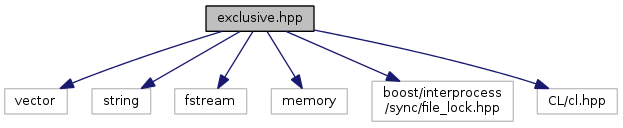
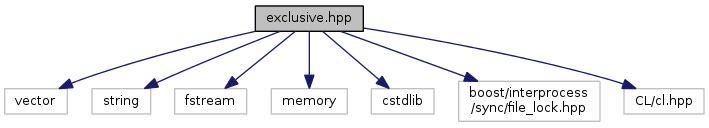
doc update

Changed region(s): [[0.0, 0.0312, 1.0, 0.9688], [0.2135, 0.875, 0.2745, 0.9062]]

diff --git a/annotated.html b/annotated.html
@@ -59,24 +59,23 @@
 <tr id="row_0_0_6_" class="even"><td class="entry"><img src="ftv2blank.png" alt="&#160;" width="16" height="22" /><img src="ftv2vertline.png" alt="|" width="16" height="22" /><img src="ftv2node.png" alt="o" width="16" height="22" /><img src="ftv2cl.png" alt="C" width="24" height="22" /><a class="el" href="structvex_1_1Filter_1_1Count.html" target="_self">Count</a></td><td class="desc">Selects no more than given number of devices</td></tr>
 <tr id="row_0_0_7_"><td class="entry"><img src="ftv2blank.png" alt="&#160;" width="16" height="22" /><img src="ftv2vertline.png" alt="|" width="16" height="22" /><img src="ftv2node.png" alt="o" width="16" height="22" /><img src="ftv2cl.png" alt="C" width="24" height="22" /><a class="el" href="structvex_1_1Filter_1_1Position.html" target="_self">Position</a></td><td class="desc">Selects one device at the given position</td></tr>
 <tr id="row_0_0_8_" class="even"><td class="entry"><img src="ftv2blank.png" alt="&#160;" width="16" height="22" /><img src="ftv2vertline.png" alt="|" width="16" height="22" /><img src="ftv2node.png" alt="o" width="16" height="22" /><img src="ftv2cl.png" alt="C" width="24" height="22" /><a class="el" href="structvex_1_1Filter_1_1EnvFilter.html" target="_self">EnvFilter</a></td><td class="desc">Environment filter</td></tr>
-<tr id="row_0_0_9_"><td class="entry"><img src="ftv2blank.png" alt="&#160;" width="16" height="22" /><img src="ftv2vertline.png" alt="|" width="16" height="22" /><img src="ftv2node.png" alt="o" width="16" height="22" /><img src="ftv2cl.png" alt="C" width="24" height="22" /><a class="el" href="structvex_1_1Filter_1_1NegateFilter.html" target="_self">NegateFilter</a></td><td class="desc">Negation of a filter</td></tr>
-<tr id="row_0_0_10_" class="even"><td class="entry"><img src="ftv2blank.png" alt="&#160;" width="16" height="22" /><img src="ftv2vertline.png" alt="|" width="16" height="22" /><img src="ftv2lastnode.png" alt="\" width="16" height="22" /><img src="ftv2cl.png" alt="C" width="24" height="22" /><a class="el" href="classvex_1_1Filter_1_1Exclusive.html" target="_self">Exclusive</a></td><td class="desc">Allows exclusive access to given number of devices across several processes</td></tr>
-<tr id="row_0_1_"><td class="entry"><img src="ftv2blank.png" alt="&#160;" width="16" height="22" /><img src="ftv2node.png" alt="o" width="16" height="22" /><img src="ftv2cl.png" alt="C" width="24" height="22" /><a class="el" href="classvex_1_1Context.html" target="_self">Context</a></td><td class="desc">VexCL context holder</td></tr>
-<tr id="row_0_2_" class="even"><td class="entry"><img src="ftv2blank.png" alt="&#160;" width="16" height="22" /><img src="ftv2node.png" alt="o" width="16" height="22" /><img src="ftv2cl.png" alt="C" width="24" height="22" /><a class="el" href="classvex_1_1profiler.html" target="_self">profiler</a></td><td class="desc">Class for gathering and printing OpenCL and Host profiling info</td></tr>
-<tr id="row_0_3_"><td class="entry"><img src="ftv2blank.png" alt="&#160;" width="16" height="22" /><img src="ftv2node.png" alt="o" width="16" height="22" /><img src="ftv2cl.png" alt="C" width="24" height="22" /><a class="el" href="classvex_1_1Reductor.html" target="_self">Reductor</a></td><td class="desc">Parallel reduction of arbitrary expression</td></tr>
-<tr id="row_0_4_" class="even"><td class="entry"><img src="ftv2blank.png" alt="&#160;" width="16" height="22" /><img src="ftv2node.png" alt="o" width="16" height="22" /><img src="ftv2cl.png" alt="C" width="24" height="22" /><a class="el" href="classvex_1_1SpMat.html" target="_self">SpMat</a></td><td class="desc">Sparse matrix in hybrid ELL-CSR format</td></tr>
-<tr id="row_0_5_"><td class="entry"><img src="ftv2blank.png" alt="&#160;" width="16" height="22" /><img src="ftv2node.png" alt="o" width="16" height="22" /><img src="ftv2cl.png" alt="C" width="24" height="22" /><a class="el" href="classvex_1_1SpMatCCSR.html" target="_self">SpMatCCSR</a></td><td class="desc">Sparse matrix in CCSR format</td></tr>
-<tr id="row_0_6_" class="even"><td class="entry"><img src="ftv2blank.png" alt="&#160;" width="16" height="22" /><img src="ftv2node.png" alt="o" width="16" height="22" /><img src="ftv2cl.png" alt="C" width="24" height="22" /><a class="el" href="classvex_1_1stencil.html" target="_self">stencil</a></td><td class="desc">Stencil</td></tr>
-<tr id="row_0_7_"><td class="entry"><img src="ftv2blank.png" alt="&#160;" width="16" height="22" /><img src="ftv2node.png" alt="o" width="16" height="22" /><img src="ftv2cl.png" alt="C" width="24" height="22" /><a class="el" href="classvex_1_1gstencil.html" target="_self">gstencil</a></td><td class="desc">Generalized stencil</td></tr>
-<tr id="row_0_8_" class="even"><td class="entry"><img src="ftv2blank.png" alt="&#160;" width="16" height="22" /><img src="ftv2node.png" alt="o" width="16" height="22" /><img src="ftv2cl.png" alt="C" width="24" height="22" /><a class="el" href="classvex_1_1StencilOperator.html" target="_self">StencilOperator</a></td><td class="desc">User-defined stencil operator</td></tr>
-<tr id="row_0_9_"><td class="entry"><img src="ftv2blank.png" alt="&#160;" width="16" height="22" /><img src="ftv2node.png" alt="o" width="16" height="22" /><img src="ftv2cl.png" alt="C" width="24" height="22" /><a class="el" href="structvex_1_1partitioning__scheme.html" target="_self">partitioning_scheme</a></td><td class="desc">Partitioning scheme for vectors and matrices</td></tr>
-<tr id="row_0_10_" class="even"><td class="entry"><img src="ftv2blank.png" alt="&#160;" width="16" height="22" /><img id="arr_0_10_" src="ftv2mnode.png" alt="o" width="16" height="22" onclick="toggleFolder('0_10_')"/><img src="ftv2cl.png" alt="C" width="24" height="22" /><a class="el" href="classvex_1_1vector.html" target="_self">vector</a></td><td class="desc">Device vector</td></tr>
-<tr id="row_0_10_0_"><td class="entry"><img src="ftv2blank.png" alt="&#160;" width="16" height="22" /><img src="ftv2vertline.png" alt="|" width="16" height="22" /><img src="ftv2node.png" alt="o" width="16" height="22" /><img src="ftv2cl.png" alt="C" width="24" height="22" /><a class="el" href="classvex_1_1vector_1_1element.html" target="_self">element</a></td><td class="desc">Proxy class</td></tr>
-<tr id="row_0_10_1_" class="even"><td class="entry"><img src="ftv2blank.png" alt="&#160;" width="16" height="22" /><img src="ftv2vertline.png" alt="|" width="16" height="22" /><img src="ftv2lastnode.png" alt="\" width="16" height="22" /><img src="ftv2cl.png" alt="C" width="24" height="22" /><a class="el" href="classvex_1_1vector_1_1iterator__type.html" target="_self">iterator_type</a></td><td class="desc">Iterator class</td></tr>
-<tr id="row_0_11_"><td class="entry"><img src="ftv2blank.png" alt="&#160;" width="16" height="22" /><img id="arr_0_11_" src="ftv2mnode.png" alt="o" width="16" height="22" onclick="toggleFolder('0_11_')"/><img src="ftv2cl.png" alt="C" width="24" height="22" /><a class="el" href="classvex_1_1multivector.html" target="_self">multivector</a></td><td class="desc">Container for several vex::vectors</td></tr>
-<tr id="row_0_11_0_" class="even"><td class="entry"><img src="ftv2blank.png" alt="&#160;" width="16" height="22" /><img src="ftv2vertline.png" alt="|" width="16" height="22" /><img src="ftv2node.png" alt="o" width="16" height="22" /><img src="ftv2cl.png" alt="C" width="24" height="22" /><a class="el" href="classvex_1_1multivector_1_1const__element.html" target="_self">const_element</a></td><td class="desc">Proxy class</td></tr>
-<tr id="row_0_11_1_"><td class="entry"><img src="ftv2blank.png" alt="&#160;" width="16" height="22" /><img src="ftv2vertline.png" alt="|" width="16" height="22" /><img src="ftv2lastnode.png" alt="\" width="16" height="22" /><img src="ftv2cl.png" alt="C" width="24" height="22" /><a class="el" href="classvex_1_1multivector_1_1element.html" target="_self">element</a></td><td class="desc">Proxy class</td></tr>
-<tr id="row_0_12_" class="even"><td class="entry"><img src="ftv2blank.png" alt="&#160;" width="16" height="22" /><img src="ftv2lastnode.png" alt="\" width="16" height="22" /><img src="ftv2cl.png" alt="C" width="24" height="22" /><a class="el" href="structvex_1_1UserFunction_3_01body_00_01RetType_07ArgType_8_8_8_08_4.html" target="_self">UserFunction&lt; body, RetType(ArgType...)&gt;</a></td><td class="desc">Custom user function</td></tr>
+<tr id="row_0_0_9_"><td class="entry"><img src="ftv2blank.png" alt="&#160;" width="16" height="22" /><img src="ftv2vertline.png" alt="|" width="16" height="22" /><img src="ftv2lastnode.png" alt="\" width="16" height="22" /><img src="ftv2cl.png" alt="C" width="24" height="22" /><a class="el" href="structvex_1_1Filter_1_1NegateFilter.html" target="_self">NegateFilter</a></td><td class="desc">Negation of a filter</td></tr>
+<tr id="row_0_1_" class="even"><td class="entry"><img src="ftv2blank.png" alt="&#160;" width="16" height="22" /><img src="ftv2node.png" alt="o" width="16" height="22" /><img src="ftv2cl.png" alt="C" width="24" height="22" /><a class="el" href="classvex_1_1Context.html" target="_self">Context</a></td><td class="desc">VexCL context holder</td></tr>
+<tr id="row_0_2_"><td class="entry"><img src="ftv2blank.png" alt="&#160;" width="16" height="22" /><img src="ftv2node.png" alt="o" width="16" height="22" /><img src="ftv2cl.png" alt="C" width="24" height="22" /><a class="el" href="classvex_1_1profiler.html" target="_self">profiler</a></td><td class="desc">Class for gathering and printing OpenCL and Host profiling info</td></tr>
+<tr id="row_0_3_" class="even"><td class="entry"><img src="ftv2blank.png" alt="&#160;" width="16" height="22" /><img src="ftv2node.png" alt="o" width="16" height="22" /><img src="ftv2cl.png" alt="C" width="24" height="22" /><a class="el" href="classvex_1_1Reductor.html" target="_self">Reductor</a></td><td class="desc">Parallel reduction of arbitrary expression</td></tr>
+<tr id="row_0_4_"><td class="entry"><img src="ftv2blank.png" alt="&#160;" width="16" height="22" /><img src="ftv2node.png" alt="o" width="16" height="22" /><img src="ftv2cl.png" alt="C" width="24" height="22" /><a class="el" href="classvex_1_1SpMat.html" target="_self">SpMat</a></td><td class="desc">Sparse matrix in hybrid ELL-CSR format</td></tr>
+<tr id="row_0_5_" class="even"><td class="entry"><img src="ftv2blank.png" alt="&#160;" width="16" height="22" /><img src="ftv2node.png" alt="o" width="16" height="22" /><img src="ftv2cl.png" alt="C" width="24" height="22" /><a class="el" href="classvex_1_1SpMatCCSR.html" target="_self">SpMatCCSR</a></td><td class="desc">Sparse matrix in CCSR format</td></tr>
+<tr id="row_0_6_"><td class="entry"><img src="ftv2blank.png" alt="&#160;" width="16" height="22" /><img src="ftv2node.png" alt="o" width="16" height="22" /><img src="ftv2cl.png" alt="C" width="24" height="22" /><a class="el" href="classvex_1_1stencil.html" target="_self">stencil</a></td><td class="desc">Stencil</td></tr>
+<tr id="row_0_7_" class="even"><td class="entry"><img src="ftv2blank.png" alt="&#160;" width="16" height="22" /><img src="ftv2node.png" alt="o" width="16" height="22" /><img src="ftv2cl.png" alt="C" width="24" height="22" /><a class="el" href="classvex_1_1gstencil.html" target="_self">gstencil</a></td><td class="desc">Generalized stencil</td></tr>
+<tr id="row_0_8_"><td class="entry"><img src="ftv2blank.png" alt="&#160;" width="16" height="22" /><img src="ftv2node.png" alt="o" width="16" height="22" /><img src="ftv2cl.png" alt="C" width="24" height="22" /><a class="el" href="classvex_1_1StencilOperator.html" target="_self">StencilOperator</a></td><td class="desc">User-defined stencil operator</td></tr>
+<tr id="row_0_9_" class="even"><td class="entry"><img src="ftv2blank.png" alt="&#160;" width="16" height="22" /><img src="ftv2node.png" alt="o" width="16" height="22" /><img src="ftv2cl.png" alt="C" width="24" height="22" /><a class="el" href="structvex_1_1partitioning__scheme.html" target="_self">partitioning_scheme</a></td><td class="desc">Partitioning scheme for vectors and matrices</td></tr>
+<tr id="row_0_10_"><td class="entry"><img src="ftv2blank.png" alt="&#160;" width="16" height="22" /><img id="arr_0_10_" src="ftv2mnode.png" alt="o" width="16" height="22" onclick="toggleFolder('0_10_')"/><img src="ftv2cl.png" alt="C" width="24" height="22" /><a class="el" href="classvex_1_1vector.html" target="_self">vector</a></td><td class="desc">Device vector</td></tr>
+<tr id="row_0_10_0_" class="even"><td class="entry"><img src="ftv2blank.png" alt="&#160;" width="16" height="22" /><img src="ftv2vertline.png" alt="|" width="16" height="22" /><img src="ftv2node.png" alt="o" width="16" height="22" /><img src="ftv2cl.png" alt="C" width="24" height="22" /><a class="el" href="classvex_1_1vector_1_1element.html" target="_self">element</a></td><td class="desc">Proxy class</td></tr>
+<tr id="row_0_10_1_"><td class="entry"><img src="ftv2blank.png" alt="&#160;" width="16" height="22" /><img src="ftv2vertline.png" alt="|" width="16" height="22" /><img src="ftv2lastnode.png" alt="\" width="16" height="22" /><img src="ftv2cl.png" alt="C" width="24" height="22" /><a class="el" href="classvex_1_1vector_1_1iterator__type.html" target="_self">iterator_type</a></td><td class="desc">Iterator class</td></tr>
+<tr id="row_0_11_" class="even"><td class="entry"><img src="ftv2blank.png" alt="&#160;" width="16" height="22" /><img id="arr_0_11_" src="ftv2mnode.png" alt="o" width="16" height="22" onclick="toggleFolder('0_11_')"/><img src="ftv2cl.png" alt="C" width="24" height="22" /><a class="el" href="classvex_1_1multivector.html" target="_self">multivector</a></td><td class="desc">Container for several vex::vectors</td></tr>
+<tr id="row_0_11_0_"><td class="entry"><img src="ftv2blank.png" alt="&#160;" width="16" height="22" /><img src="ftv2vertline.png" alt="|" width="16" height="22" /><img src="ftv2node.png" alt="o" width="16" height="22" /><img src="ftv2cl.png" alt="C" width="24" height="22" /><a class="el" href="classvex_1_1multivector_1_1const__element.html" target="_self">const_element</a></td><td class="desc">Proxy class</td></tr>
+<tr id="row_0_11_1_" class="even"><td class="entry"><img src="ftv2blank.png" alt="&#160;" width="16" height="22" /><img src="ftv2vertline.png" alt="|" width="16" height="22" /><img src="ftv2lastnode.png" alt="\" width="16" height="22" /><img src="ftv2cl.png" alt="C" width="24" height="22" /><a class="el" href="classvex_1_1multivector_1_1element.html" target="_self">element</a></td><td class="desc">Proxy class</td></tr>
+<tr id="row_0_12_"><td class="entry"><img src="ftv2blank.png" alt="&#160;" width="16" height="22" /><img src="ftv2lastnode.png" alt="\" width="16" height="22" /><img src="ftv2cl.png" alt="C" width="24" height="22" /><a class="el" href="structvex_1_1UserFunction_3_01body_00_01RetType_07ArgType_8_8_8_08_4.html" target="_self">UserFunction&lt; body, RetType(ArgType...)&gt;</a></td><td class="desc">Custom user function</td></tr>
 </table>
 </div><!-- directory -->
 </div><!-- contents -->

diff --git a/classes.html b/classes.html
@@ -61,19 +61,18 @@
 </td><td rowspan="2" valign="bottom"><a name="letter_U"></a><table border="0" cellspacing="0" cellpadding="0"><tr><td><div class="ah">&#160;&#160;U&#160;&#160;</div></td></tr></table>
 </td></tr>
 <tr><td valign="top"><a class="el" href="structvex_1_1Filter_1_1EnvFilter.html">EnvFilter</a> (<a class="el" href="namespacevex_1_1Filter.html">vex::Filter</a>)&#160;&#160;&#160;</td><td valign="top"><a class="el" href="classvex_1_1Reductor.html">Reductor</a> (<a class="el" href="namespacevex.html">vex</a>)&#160;&#160;&#160;</td></tr>
-<tr><td valign="top"><a class="el" href="classvex_1_1multivector_1_1const__element.html">multivector::const_element</a> (<a class="el" href="namespacevex.html">vex</a>)&#160;&#160;&#160;</td><td valign="top"><a class="el" href="classvex_1_1Filter_1_1Exclusive.html">Exclusive</a> (<a class="el" href="namespacevex_1_1Filter.html">vex::Filter</a>)&#160;&#160;&#160;</td><td valign="top"><a class="el" href="structvex_1_1Filter_1_1Name.html">Name</a> (<a class="el" href="namespacevex_1_1Filter.html">vex::Filter</a>)&#160;&#160;&#160;</td><td rowspan="2" valign="bottom"><a name="letter_S"></a><table border="0" cellspacing="0" cellpadding="0"><tr><td><div class="ah">&#160;&#160;S&#160;&#160;</div></td></tr></table>
+<tr><td valign="top"><a class="el" href="classvex_1_1multivector_1_1const__element.html">multivector::const_element</a> (<a class="el" href="namespacevex.html">vex</a>)&#160;&#160;&#160;</td><td rowspan="2" valign="bottom"><a name="letter_G"></a><table border="0" cellspacing="0" cellpadding="0"><tr><td><div class="ah">&#160;&#160;G&#160;&#160;</div></td></tr></table>
+</td><td valign="top"><a class="el" href="structvex_1_1Filter_1_1Name.html">Name</a> (<a class="el" href="namespacevex_1_1Filter.html">vex::Filter</a>)&#160;&#160;&#160;</td><td rowspan="2" valign="bottom"><a name="letter_S"></a><table border="0" cellspacing="0" cellpadding="0"><tr><td><div class="ah">&#160;&#160;S&#160;&#160;</div></td></tr></table>
 </td><td valign="top"><a class="el" href="structvex_1_1UserFunction_3_01body_00_01RetType_07ArgType_8_8_8_08_4.html">UserFunction&lt; body, RetType(ArgType...)&gt;</a> (<a class="el" href="namespacevex.html">vex</a>)&#160;&#160;&#160;</td></tr>
-<tr><td valign="top"><a class="el" href="classvex_1_1Context.html">Context</a> (<a class="el" href="namespacevex.html">vex</a>)&#160;&#160;&#160;</td><td rowspan="2" valign="bottom"><a name="letter_G"></a><table border="0" cellspacing="0" cellpadding="0"><tr><td><div class="ah">&#160;&#160;G&#160;&#160;</div></td></tr></table>
-</td><td valign="top"><a class="el" href="structvex_1_1Filter_1_1NegateFilter.html">NegateFilter</a> (<a class="el" href="namespacevex_1_1Filter.html">vex::Filter</a>)&#160;&#160;&#160;</td><td rowspan="2" valign="bottom"><a name="letter_V"></a><table border="0" cellspacing="0" cellpadding="0"><tr><td><div class="ah">&#160;&#160;V&#160;&#160;</div></td></tr></table>
+<tr><td valign="top"><a class="el" href="classvex_1_1Context.html">Context</a> (<a class="el" href="namespacevex.html">vex</a>)&#160;&#160;&#160;</td><td valign="top"><a class="el" href="structvex_1_1Filter_1_1NegateFilter.html">NegateFilter</a> (<a class="el" href="namespacevex_1_1Filter.html">vex::Filter</a>)&#160;&#160;&#160;</td><td rowspan="2" valign="bottom"><a name="letter_V"></a><table border="0" cellspacing="0" cellpadding="0"><tr><td><div class="ah">&#160;&#160;V&#160;&#160;</div></td></tr></table>
 </td></tr>
-<tr><td valign="top"><a class="el" href="structvex_1_1Filter_1_1Count.html">Count</a> (<a class="el" href="namespacevex_1_1Filter.html">vex::Filter</a>)&#160;&#160;&#160;</td><td rowspan="2" valign="bottom"><a name="letter_P"></a><table border="0" cellspacing="0" cellpadding="0"><tr><td><div class="ah">&#160;&#160;P&#160;&#160;</div></td></tr></table>
+<tr><td valign="top"><a class="el" href="structvex_1_1Filter_1_1Count.html">Count</a> (<a class="el" href="namespacevex_1_1Filter.html">vex::Filter</a>)&#160;&#160;&#160;</td><td valign="top"><a class="el" href="classvex_1_1gstencil.html">gstencil</a> (<a class="el" href="namespacevex.html">vex</a>)&#160;&#160;&#160;</td><td rowspan="2" valign="bottom"><a name="letter_P"></a><table border="0" cellspacing="0" cellpadding="0"><tr><td><div class="ah">&#160;&#160;P&#160;&#160;</div></td></tr></table>
 </td><td valign="top"><a class="el" href="classvex_1_1SpMat.html">SpMat</a> (<a class="el" href="namespacevex.html">vex</a>)&#160;&#160;&#160;</td></tr>
 <tr><td rowspan="2" valign="bottom"><a name="letter_D"></a><table border="0" cellspacing="0" cellpadding="0"><tr><td><div class="ah">&#160;&#160;D&#160;&#160;</div></td></tr></table>
-</td><td valign="top"><a class="el" href="classvex_1_1gstencil.html">gstencil</a> (<a class="el" href="namespacevex.html">vex</a>)&#160;&#160;&#160;</td><td valign="top"><a class="el" href="classvex_1_1SpMatCCSR.html">SpMatCCSR</a> (<a class="el" href="namespacevex.html">vex</a>)&#160;&#160;&#160;</td><td valign="top"><a class="el" href="classvex_1_1vector.html">vector</a> (<a class="el" href="namespacevex.html">vex</a>)&#160;&#160;&#160;</td></tr>
-<tr><td rowspan="2" valign="bottom"><a name="letter_I"></a><table border="0" cellspacing="0" cellpadding="0"><tr><td><div class="ah">&#160;&#160;I&#160;&#160;</div></td></tr></table>
-</td><td valign="top"><a class="el" href="structvex_1_1partitioning__scheme.html">partitioning_scheme</a> (<a class="el" href="namespacevex.html">vex</a>)&#160;&#160;&#160;</td><td valign="top"><a class="el" href="classvex_1_1stencil.html">stencil</a> (<a class="el" href="namespacevex.html">vex</a>)&#160;&#160;&#160;</td><td valign="top"><a class="el" href="structvex_1_1Filter_1_1Vendor.html">Vendor</a> (<a class="el" href="namespacevex_1_1Filter.html">vex::Filter</a>)&#160;&#160;&#160;</td></tr>
-<tr><td valign="top"><a class="el" href="structvex_1_1Filter_1_1DoublePrecisionFilter.html">DoublePrecisionFilter</a> (<a class="el" href="namespacevex_1_1Filter.html">vex::Filter</a>)&#160;&#160;&#160;</td><td valign="top"><a class="el" href="structvex_1_1Filter_1_1Platform.html">Platform</a> (<a class="el" href="namespacevex_1_1Filter.html">vex::Filter</a>)&#160;&#160;&#160;</td><td valign="top"><a class="el" href="classvex_1_1StencilOperator.html">StencilOperator</a> (<a class="el" href="namespacevex.html">vex</a>)&#160;&#160;&#160;</td><td></td></tr>
-<tr><td></td><td valign="top"><a class="el" href="classvex_1_1vector_1_1iterator__type.html">vector::iterator_type</a> (<a class="el" href="namespacevex.html">vex</a>)&#160;&#160;&#160;</td><td></td><td></td><td></td></tr>
+</td><td rowspan="2" valign="bottom"><a name="letter_I"></a><table border="0" cellspacing="0" cellpadding="0"><tr><td><div class="ah">&#160;&#160;I&#160;&#160;</div></td></tr></table>
+</td><td valign="top"><a class="el" href="classvex_1_1SpMatCCSR.html">SpMatCCSR</a> (<a class="el" href="namespacevex.html">vex</a>)&#160;&#160;&#160;</td><td valign="top"><a class="el" href="classvex_1_1vector.html">vector</a> (<a class="el" href="namespacevex.html">vex</a>)&#160;&#160;&#160;</td></tr>
+<tr><td valign="top"><a class="el" href="structvex_1_1partitioning__scheme.html">partitioning_scheme</a> (<a class="el" href="namespacevex.html">vex</a>)&#160;&#160;&#160;</td><td valign="top"><a class="el" href="classvex_1_1stencil.html">stencil</a> (<a class="el" href="namespacevex.html">vex</a>)&#160;&#160;&#160;</td><td valign="top"><a class="el" href="structvex_1_1Filter_1_1Vendor.html">Vendor</a> (<a class="el" href="namespacevex_1_1Filter.html">vex::Filter</a>)&#160;&#160;&#160;</td></tr>
+<tr><td valign="top"><a class="el" href="structvex_1_1Filter_1_1DoublePrecisionFilter.html">DoublePrecisionFilter</a> (<a class="el" href="namespacevex_1_1Filter.html">vex::Filter</a>)&#160;&#160;&#160;</td><td valign="top"><a class="el" href="classvex_1_1vector_1_1iterator__type.html">vector::iterator_type</a> (<a class="el" href="namespacevex.html">vex</a>)&#160;&#160;&#160;</td><td valign="top"><a class="el" href="structvex_1_1Filter_1_1Platform.html">Platform</a> (<a class="el" href="namespacevex_1_1Filter.html">vex::Filter</a>)&#160;&#160;&#160;</td><td valign="top"><a class="el" href="classvex_1_1StencilOperator.html">StencilOperator</a> (<a class="el" href="namespacevex.html">vex</a>)&#160;&#160;&#160;</td><td></td></tr>
 <tr><td></td><td></td><td></td><td></td><td></td></tr>
 </table>
 <div class="qindex"><a class="qindex" href="#letter_A">A</a>&#160;|&#160;<a class="qindex" href="#letter_C">C</a>&#160;|&#160;<a class="qindex" href="#letter_D">D</a>&#160;|&#160;<a class="qindex" href="#letter_E">E</a>&#160;|&#160;<a class="qindex" href="#letter_G">G</a>&#160;|&#160;<a class="qindex" href="#letter_I">I</a>&#160;|&#160;<a class="qindex" href="#letter_M">M</a>&#160;|&#160;<a class="qindex" href="#letter_N">N</a>&#160;|&#160;<a class="qindex" href="#letter_P">P</a>&#160;|&#160;<a class="qindex" href="#letter_R">R</a>&#160;|&#160;<a class="qindex" href="#letter_S">S</a>&#160;|&#160;<a class="qindex" href="#letter_T">T</a>&#160;|&#160;<a class="qindex" href="#letter_U">U</a>&#160;|&#160;<a class="qindex" href="#letter_V">V</a></div>

diff --git a/namespacevex_1_1Filter.html b/namespacevex_1_1Filter.html
@@ -90,9 +90,6 @@ Classes</h2></td></tr>
 <tr class="memitem:"><td class="memItemLeft" align="right" valign="top">struct &#160;</td><td class="memItemRight" valign="bottom"><a class="el" href="structvex_1_1Filter_1_1NegateFilter.html">NegateFilter</a></td></tr>
 <tr class="memdesc:"><td class="mdescLeft">&#160;</td><td class="mdescRight">Negation of a filter.  <a href="structvex_1_1Filter_1_1NegateFilter.html#details">More...</a><br/></td></tr>
 <tr class="separator:"><td class="memSeparator" colspan="2">&#160;</td></tr>
-<tr class="memitem:"><td class="memItemLeft" align="right" valign="top">class &#160;</td><td class="memItemRight" valign="bottom"><a class="el" href="classvex_1_1Filter_1_1Exclusive.html">Exclusive</a></td></tr>
-<tr class="memdesc:"><td class="mdescLeft">&#160;</td><td class="mdescRight">Allows exclusive access to given number of devices across several processes.  <a href="classvex_1_1Filter_1_1Exclusive.html#details">More...</a><br/></td></tr>
-<tr class="separator:"><td class="memSeparator" colspan="2">&#160;</td></tr>
 </table><table class="memberdecls">
 <tr class="heading"><td colspan="2"><h2 class="groupheader"><a name="func-members"></a>
 Functions</h2></td></tr>
@@ -113,6 +110,10 @@ template&lt;class Flt &gt; </td></tr>
 <tr class="memitem:a78f584ca4e3eae2ac1414e56e92287ee"><td class="memTemplItemLeft" align="right" valign="top"><a class="el" href="structvex_1_1Filter_1_1NegateFilter.html">NegateFilter</a>&lt; Flt &gt;&#160;</td><td class="memTemplItemRight" valign="bottom"><a class="el" href="namespacevex_1_1Filter.html#a78f584ca4e3eae2ac1414e56e92287ee">operator!</a> (const Flt &amp;flt)</td></tr>
 <tr class="memdesc:a78f584ca4e3eae2ac1414e56e92287ee"><td class="mdescLeft">&#160;</td><td class="mdescRight">Negate a filter. <br/></td></tr>
 <tr class="separator:a78f584ca4e3eae2ac1414e56e92287ee"><td class="memSeparator" colspan="2">&#160;</td></tr>
+<tr class="memitem:a0664aab5022fab0f7764d0e72cb06fc8"><td class="memTemplParams" colspan="2">template&lt;class Filter &gt; </td></tr>
+<tr class="memitem:a0664aab5022fab0f7764d0e72cb06fc8"><td class="memTemplItemLeft" align="right" valign="top">ExclusiveFilter&lt; Filter &gt;&#160;</td><td class="memTemplItemRight" valign="bottom"><a class="el" href="namespacevex_1_1Filter.html#a0664aab5022fab0f7764d0e72cb06fc8">Exclusive</a> (const Filter &amp;filter)</td></tr>
+<tr class="memdesc:a0664aab5022fab0f7764d0e72cb06fc8"><td class="mdescLeft">&#160;</td><td class="mdescRight">Allows exclusive access to compute devices across several processes.  <a href="#a0664aab5022fab0f7764d0e72cb06fc8"></a><br/></td></tr>
+<tr class="separator:a0664aab5022fab0f7764d0e72cb06fc8"><td class="memSeparator" colspan="2">&#160;</td></tr>
 </table><table class="memberdecls">
 <tr class="heading"><td colspan="2"><h2 class="groupheader"><a name="var-members"></a>
 Variables</h2></td></tr>
@@ -128,7 +129,37 @@ const <a class="el" href="structvex_1_1Filter_1_1EnvFilter.html">EnvFilter</a>&#
 </table>
 <a name="details" id="details"></a><h2 class="groupheader">Detailed Description</h2>
 <div class="textblock"><p>Device filters. </p>
-</div></div><!-- contents -->
+</div><h2 class="groupheader">Function Documentation</h2>
+<a class="anchor" id="a0664aab5022fab0f7764d0e72cb06fc8"></a>
+<div class="memitem">
+<div class="memproto">
+<div class="memtemplate">
+template&lt;class Filter &gt; </div>
+      <table class="memname">
+        <tr>
+          <td class="memname">ExclusiveFilter&lt;Filter&gt; vex::Filter::Exclusive </td>
+          <td>(</td>
+          <td class="paramtype">const Filter &amp;&#160;</td>
+          <td class="paramname"><em>filter</em></td><td>)</td>
+          <td></td>
+        </tr>
+      </table>
+</div><div class="memdoc">
+
+<p>Allows exclusive access to compute devices across several processes. </p>
+<p>Returns devices that pass through provided device filter and are not locked.</p>
+<dl class="params"><dt>Parameters</dt><dd>
+  <table class="params">
+    <tr><td class="paramname">filter</td><td>Compute device filter</td></tr>
+  </table>
+  </dd>
+</dl>
+<dl class="section note"><dt>Note</dt><dd>Depends on boost::interprocess library.</dd></dl>
+<p>lock files are created in directory specified in VEXCL_LOCK_DIR environment variable. If the variable does not exist, /tmp is used on Linux and TMPDIR% on Windows. The lock directory should exist and be writable by the running user. </p>
+
+</div>
+</div>
+</div><!-- contents -->
 <!-- start footer part -->
 <hr class="footer"/><address class="footer"><small>
 Generated by &#160;<a href="http://www.doxygen.org/index.html">

diff --git a/namespacemembers.html b/namespacemembers.html
@@ -47,18 +47,48 @@
       <li><a href="namespacemembers_enum.html"><span>Enumerations</span></a></li>
     </ul>
   </div>
+  <div id="navrow4" class="tabs3">
+    <ul class="tablist">
+      <li><a href="#index_a"><span>a</span></a></li>
+      <li><a href="#index_b"><span>b</span></a></li>
+      <li><a href="#index_c"><span>c</span></a></li>
+      <li><a href="#index_d"><span>d</span></a></li>
+      <li><a href="#index_e"><span>e</span></a></li>
+      <li><a href="#index_k"><span>k</span></a></li>
+      <li><a href="#index_n"><span>n</span></a></li>
+      <li><a href="#index_o"><span>o</span></a></li>
+      <li><a href="#index_q"><span>q</span></a></li>
+      <li><a href="#index_r"><span>r</span></a></li>
+      <li><a href="#index_s"><span>s</span></a></li>
+      <li><a href="#index_t"><span>t</span></a></li>
+    </ul>
+  </div>
 </div><!-- top -->
 <div class="contents">
-<div class="textblock">Here is a list of all documented namespace members with links to the namespaces they belong to:</div><ul>
+<div class="textblock">Here is a list of all documented namespace members with links to the namespaces they belong to:</div>
+
+<h3><a class="anchor" id="index_a"></a>- a -</h3><ul>
 <li>alignup()
 : <a class="el" href="namespacevex.html#adde6e399118c4e9c8fdb111d23d65698">vex</a>
 </li>
+</ul>
+
+
+<h3><a class="anchor" id="index_b"></a>- b -</h3><ul>
 <li>build_sources()
 : <a class="el" href="namespacevex.html#a61989abf337d9845cad96ce9e805fd56">vex</a>
 </li>
+</ul>
+
+
+<h3><a class="anchor" id="index_c"></a>- c -</h3><ul>
 <li>copy()
 : <a class="el" href="namespacevex.html#a7896b8bc121f843d62d724a98ebe3b46">vex</a>
 </li>
+</ul>
+
+
+<h3><a class="anchor" id="index_d"></a>- d -</h3><ul>
 <li>device_list()
 : <a class="el" href="namespacevex.html#a0571bb5e0afbc53f844665652a204b0a">vex</a>
 </li>
@@ -68,15 +98,34 @@
 <li>device_vector_perf()
 : <a class="el" href="namespacevex.html#a47b97ac4ec3d1d74e854ec44c0c800d2">vex</a>
 </li>
+</ul>
+
+
+<h3><a class="anchor" id="index_e"></a>- e -</h3><ul>
 <li>equal_weights()
 : <a class="el" href="namespacevex.html#a545958e083fcea052c69301a0de38903">vex</a>
 </li>
+<li>Exclusive()
+: <a class="el" href="namespacevex_1_1Filter.html#a0664aab5022fab0f7764d0e72cb06fc8">vex::Filter</a>
+</li>
+</ul>
+
+
+<h3><a class="anchor" id="index_k"></a>- k -</h3><ul>
 <li>kernel_workgroup_size()
 : <a class="el" href="namespacevex.html#a90a8336dca27e8e2c3e31bb8a2b70e91">vex</a>
 </li>
+</ul>
+
+
+<h3><a class="anchor" id="index_n"></a>- n -</h3><ul>
 <li>nextpow2()
 : <a class="el" href="namespacevex.html#a08607ab86b8756c1bd30c651c6a7ab3b">vex</a>
 </li>
+</ul>
+
+
+<h3><a class="anchor" id="index_o"></a>- o -</h3><ul>
 <li>operator!()
 : <a class="el" href="namespacevex_1_1Filter.html#a78f584ca4e3eae2ac1414e56e92287ee">vex::Filter</a>
 </li>
@@ -98,15 +147,31 @@
 <li>operator||()
 : <a class="el" href="namespacevex_1_1Filter.html#af22bdf7eca4b8cf86854997dbf6aae24">vex::Filter</a>
 </li>
+</ul>
+
+
+<h3><a class="anchor" id="index_q"></a>- q -</h3><ul>
 <li>queue_list()
 : <a class="el" href="namespacevex.html#a7adacdbabcefdd8480ff64ae7b93541a">vex</a>
 </li>
+</ul>
+
+
+<h3><a class="anchor" id="index_r"></a>- r -</h3><ul>
 <li>ReductionKind
 : <a class="el" href="namespacevex.html#a3230efd5c4554f00d13b5c8b594a854c">vex</a>
 </li>
+</ul>
+
+
+<h3><a class="anchor" id="index_s"></a>- s -</h3><ul>
 <li>swap()
 : <a class="el" href="namespacevex.html#a6c514253c0f09c5a18dac3e687553465">vex</a>
 </li>
+</ul>
+
+
+<h3><a class="anchor" id="index_t"></a>- t -</h3><ul>
 <li>type_name()
 : <a class="el" href="namespacevex.html#a56365bca0357a23c638d8d39a0224304">vex</a>
 </li>

diff --git a/exclusive_8hpp.html b/exclusive_8hpp.html
@@ -46,9 +46,9 @@
 </div><!-- top -->
 <div class="header">
   <div class="summary">
-<a href="#nested-classes">Classes</a> &#124;
 <a href="#namespaces">Namespaces</a> &#124;
-<a href="#define-members">Macros</a>  </div>
+<a href="#define-members">Macros</a> &#124;
+<a href="#func-members">Functions</a>  </div>
   <div class="headertitle">
 <div class="title">exclusive.hpp File Reference</div>  </div>
 </div><!--header-->
@@ -60,6 +60,7 @@
 <code>#include &lt;string&gt;</code><br/>
 <code>#include &lt;fstream&gt;</code><br/>
 <code>#include &lt;memory&gt;</code><br/>
+<code>#include &lt;cstdlib&gt;</code><br/>
 <code>#include &lt;boost/interprocess/sync/file_lock.hpp&gt;</code><br/>
 <code>#include &lt;CL/cl.hpp&gt;</code><br/>
 </div><div class="textblock"><div id="dynsection-0" onclick="return toggleVisibility(this)" class="dynheader closed" style="cursor:pointer;">
@@ -72,12 +73,6 @@
 </map>
 </div>
 </div><table class="memberdecls">
-<tr class="heading"><td colspan="2"><h2 class="groupheader"><a name="nested-classes"></a>
-Classes</h2></td></tr>
-<tr class="memitem:"><td class="memItemLeft" align="right" valign="top">class &#160;</td><td class="memItemRight" valign="bottom"><a class="el" href="classvex_1_1Filter_1_1Exclusive.html">vex::Filter::Exclusive</a></td></tr>
-<tr class="memdesc:"><td class="mdescLeft">&#160;</td><td class="mdescRight">Allows exclusive access to given number of devices across several processes.  <a href="classvex_1_1Filter_1_1Exclusive.html#details">More...</a><br/></td></tr>
-<tr class="separator:"><td class="memSeparator" colspan="2">&#160;</td></tr>
-</table><table class="memberdecls">
 <tr class="heading"><td colspan="2"><h2 class="groupheader"><a name="namespaces"></a>
 Namespaces</h2></td></tr>
 <tr class="memitem:namespacevex"><td class="memItemLeft" align="right" valign="top">namespace &#160;</td><td class="memItemRight" valign="bottom"><a class="el" href="namespacevex.html">vex</a></td></tr>
@@ -86,6 +81,13 @@ Namespaces</h2></td></tr>
 <tr class="memitem:namespacevex_1_1Filter"><td class="memItemLeft" align="right" valign="top">namespace &#160;</td><td class="memItemRight" valign="bottom"><a class="el" href="namespacevex_1_1Filter.html">vex::Filter</a></td></tr>
 <tr class="memdesc:namespacevex_1_1Filter"><td class="mdescLeft">&#160;</td><td class="mdescRight">Device filters. <br/></td></tr>
 <tr class="separator:"><td class="memSeparator" colspan="2">&#160;</td></tr>
+</table><table class="memberdecls">
+<tr class="heading"><td colspan="2"><h2 class="groupheader"><a name="func-members"></a>
+Functions</h2></td></tr>
+<tr class="memitem:a0664aab5022fab0f7764d0e72cb06fc8"><td class="memTemplParams" colspan="2">template&lt;class Filter &gt; </td></tr>
+<tr class="memitem:a0664aab5022fab0f7764d0e72cb06fc8"><td class="memTemplItemLeft" align="right" valign="top">ExclusiveFilter&lt; Filter &gt;&#160;</td><td class="memTemplItemRight" valign="bottom"><a class="el" href="namespacevex_1_1Filter.html#a0664aab5022fab0f7764d0e72cb06fc8">vex::Filter::Exclusive</a> (const Filter &amp;filter)</td></tr>
+<tr class="memdesc:a0664aab5022fab0f7764d0e72cb06fc8"><td class="mdescLeft">&#160;</td><td class="mdescRight">Allows exclusive access to compute devices across several processes.  <a href="#a0664aab5022fab0f7764d0e72cb06fc8"></a><br/></td></tr>
+<tr class="separator:a0664aab5022fab0f7764d0e72cb06fc8"><td class="memSeparator" colspan="2">&#160;</td></tr>
 </table>
 <a name="details" id="details"></a><h2 class="groupheader">Detailed Description</h2>
 <div class="textblock"><p>Device filter allowing exclusive access. </p>

diff --git a/namespacemembers_func.html b/namespacemembers_func.html
@@ -71,6 +71,9 @@
 <li>equal_weights()
 : <a class="el" href="namespacevex.html#a545958e083fcea052c69301a0de38903">vex</a>
 </li>
+<li>Exclusive()
+: <a class="el" href="namespacevex_1_1Filter.html#a0664aab5022fab0f7764d0e72cb06fc8">vex::Filter</a>
+</li>
 <li>kernel_workgroup_size()
 : <a class="el" href="namespacevex.html#a90a8336dca27e8e2c3e31bb8a2b70e91">vex</a>
 </li>
